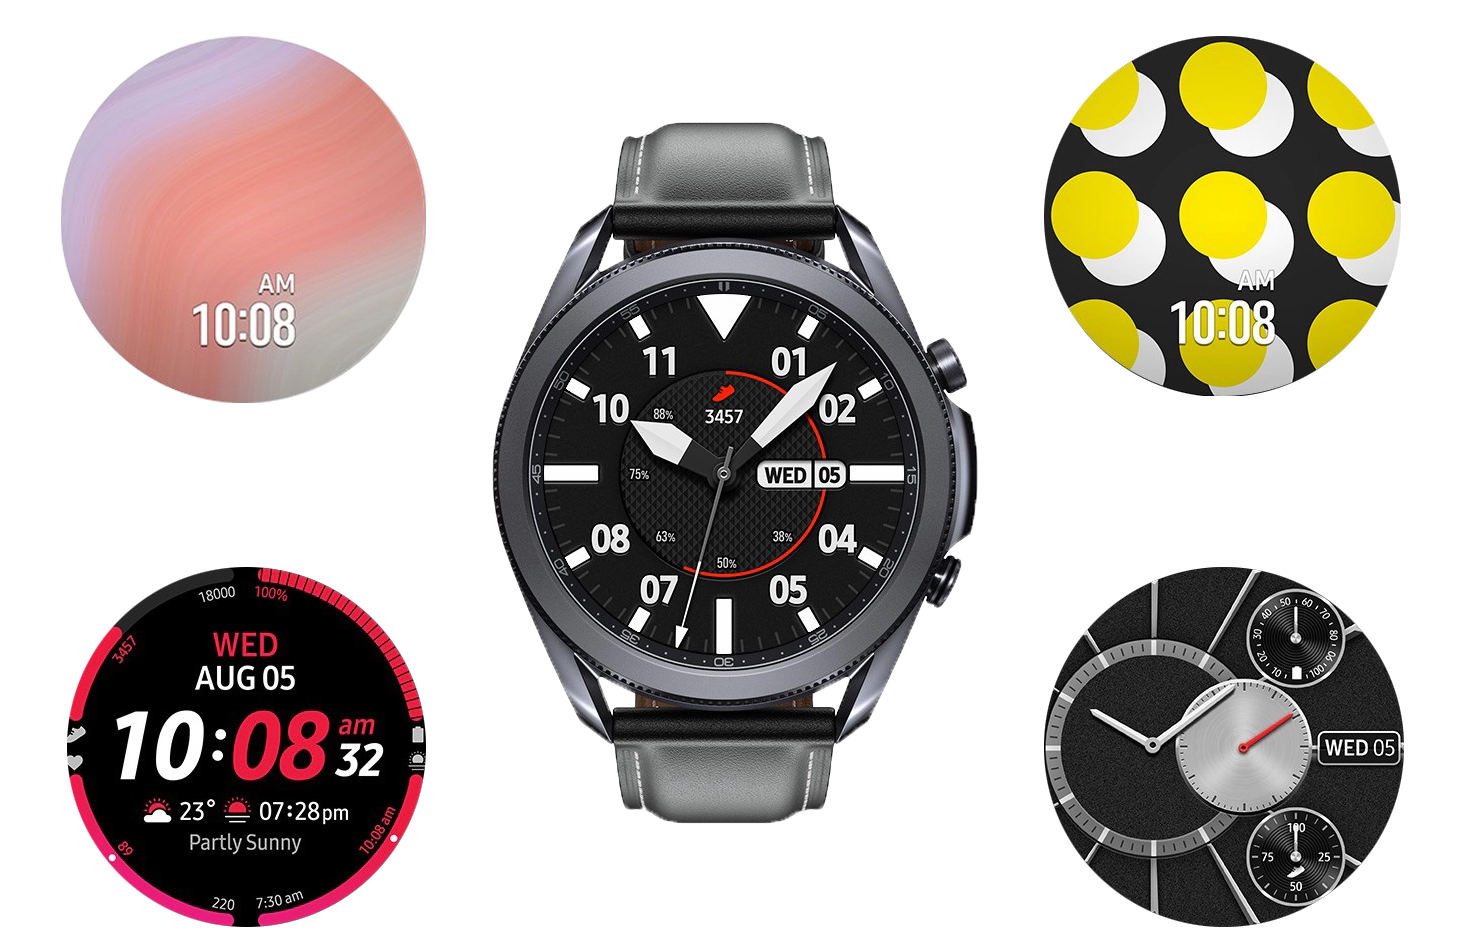
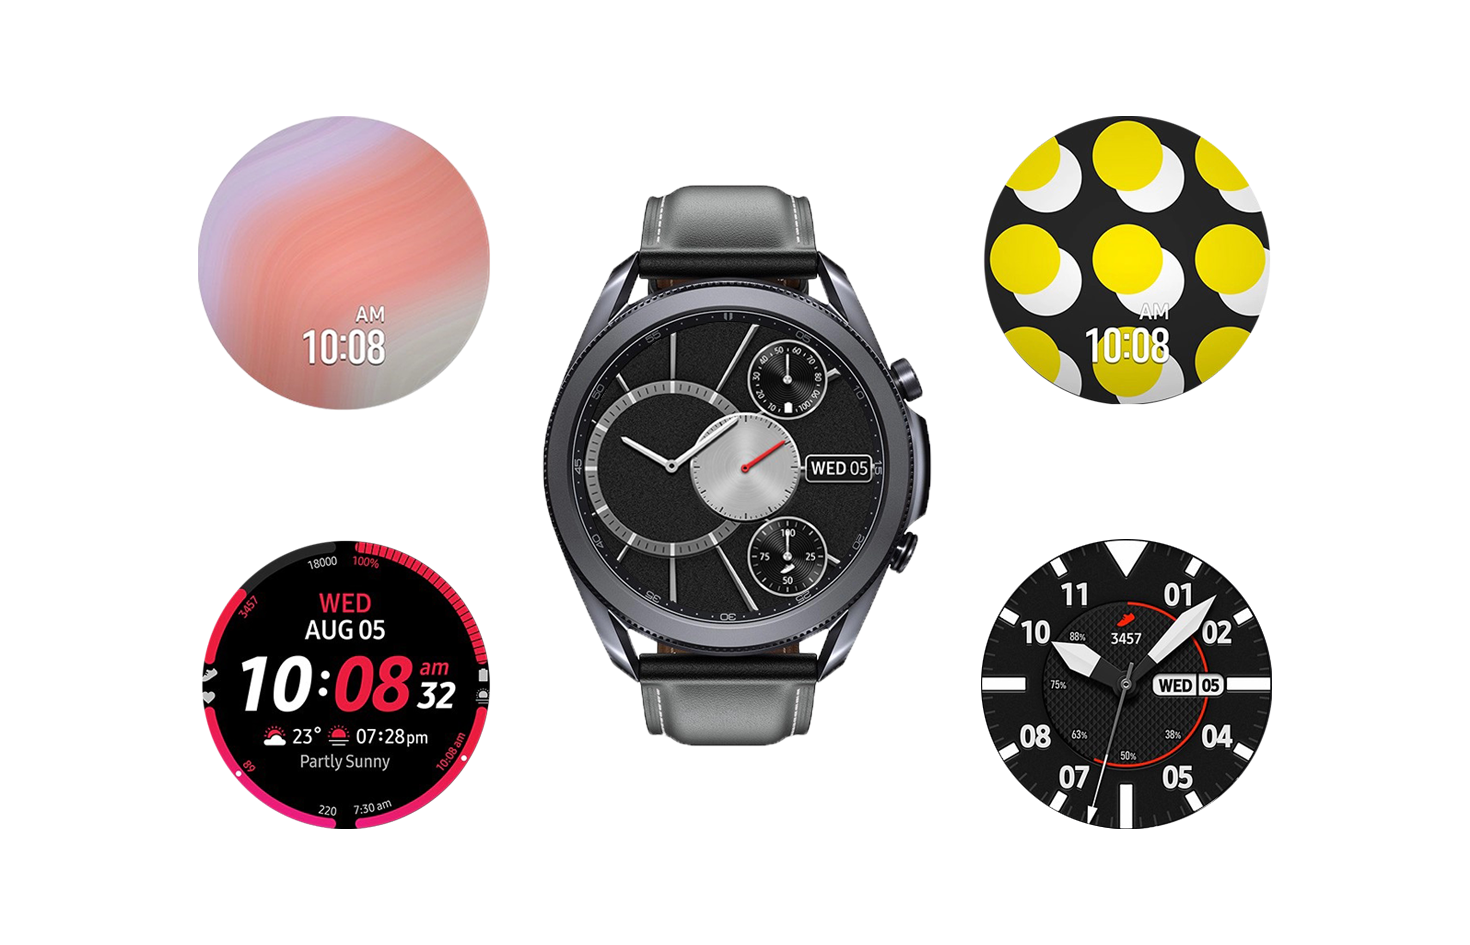
galaxy
galaxy

diff --git a/index.html b/index.html
@@ -158,14 +158,28 @@
 <!-- section06 -->
 
     <section id="section07">
+        <div class="sec07-main text-center">
+            <h1>Galaxy Watch3를 경험하세요</h1>
+        </div>
         <div class="container-fluid">
             <div class="row sec07-bg">
                 <div class="col-sm-8 section07-img">
-                    <img src="images/o2.png" alt="" width="100%" class="img01">
-                    <img src="images/circle.png" alt="" width="100%" class="img02">
-                    <img src="images/face.png" alt="" width="100%" class="img03">
+                    <img src="images/circle.png" alt="" class="img03">
+                    <img src="images/otwo.png" alt="" class="img01">
+                    <img src="images/face.png" alt="" class="img02">
                 </div>
-                <div class="col-sm-4">
+                <div class="col-sm-4 sec07-button-row">
+                    <div class="sec07-txt text-center">
+                        <button class=" button03">
+                            <div class="section07-txt">
+                                <h1>스테인리스 바디 가죽 스트랩</h1>
+                                <p>리얼 워치 디자인</p>
+                            </div>
+                            <div class="sec07-img">
+                                <img src="images/icon-1.png" alt="">
+                            </div>
+                        </button>
+                    </div>
                     <div class="sec07-txt text-center">
                         <button class="button01">
                             <div class="section07-txt">
@@ -188,22 +202,27 @@
                             </div>
                         </button>
                     </div>
-                    <div class="sec07-txt text-center">
-                        <button class=" button03">
-                            <div class="section07-txt">
-                                <h1>스테인리스 바디 가죽 스트랩</h1>
-                                <p>리얼 워치 디자인</p>
-                            </div>
-                            <div class="sec07-img">
-                                <img src="images/icon-1.png" alt="">
-                            </div>
-                        </button>
-                    </div>
                 </div>
             </div>
         </div>
     </section>
     <!-- section07 -->
+
+    <section id="section10">
+        <div class="sec10-bg">
+            <div class="cover">
+                <img src="images/watch-twice.png" alt="" data-aos="zoom-in" data-aos-duration="2000" data-aos-offset="300">
+                <div class="cover-in">
+                    <img src="images/watch-third.png" alt="" data-aos="zoom-in" data-aos-duration="2000" data-aos-offset="600">
+                    <div class="cover-in-cover">
+                        <img src="images/watch-anybody.png" alt="" data-aos="zoom-in" data-aos-duration="2000" data-aos-offset="800">
+                    </div>
+                </div>
+            </div>
+        </div>
+    </section>
+
+    <!-- section10 -->
 
     <section id="section05">
         <div class="section05-txt text-center">

diff --git a/css/style.css b/css/style.css
@@ -266,6 +266,14 @@ a{
 /* .sec07-bg{
     background: #f1f1f1;
 } */
+.sec07-main{
+    margin-bottom: 7%;
+}
+.sec07-main h1{
+    font-size: 40px;
+    font-weight: bold;
+    font-family: 'IBMPlexSansKR-Regular';
+}
 .section07-img{
     overflow: hidden;
     display: flex;
@@ -323,15 +331,36 @@ a{
     .sec07-txt>div{
         margin: 0 auto;
         text-align: center;
-
     }
+    .sec07-button-row{
+        margin-top: 5%;
+    }
+}
+
+#section10{
+    width: 100%;
+}
+.sec10-bg{
+    background: url('../images/watch-single.png');
+    background-repeat: no-repeat;
+}
+.cover{
+    position: relative;
+}
+.cover-in{
+    position: absolute;
+    top: 0;
+}
+.cover-in-cover{
+    position: absolute;
+    top: 0;
 }
 
 /* section05 */
 #section05{
     width: 100%;
     padding-top: 2%;
-    padding-bottom: 5%;
+    padding-bottom: 3%;
 }
 .section05-txt{
     /* font-size: 100px; */
